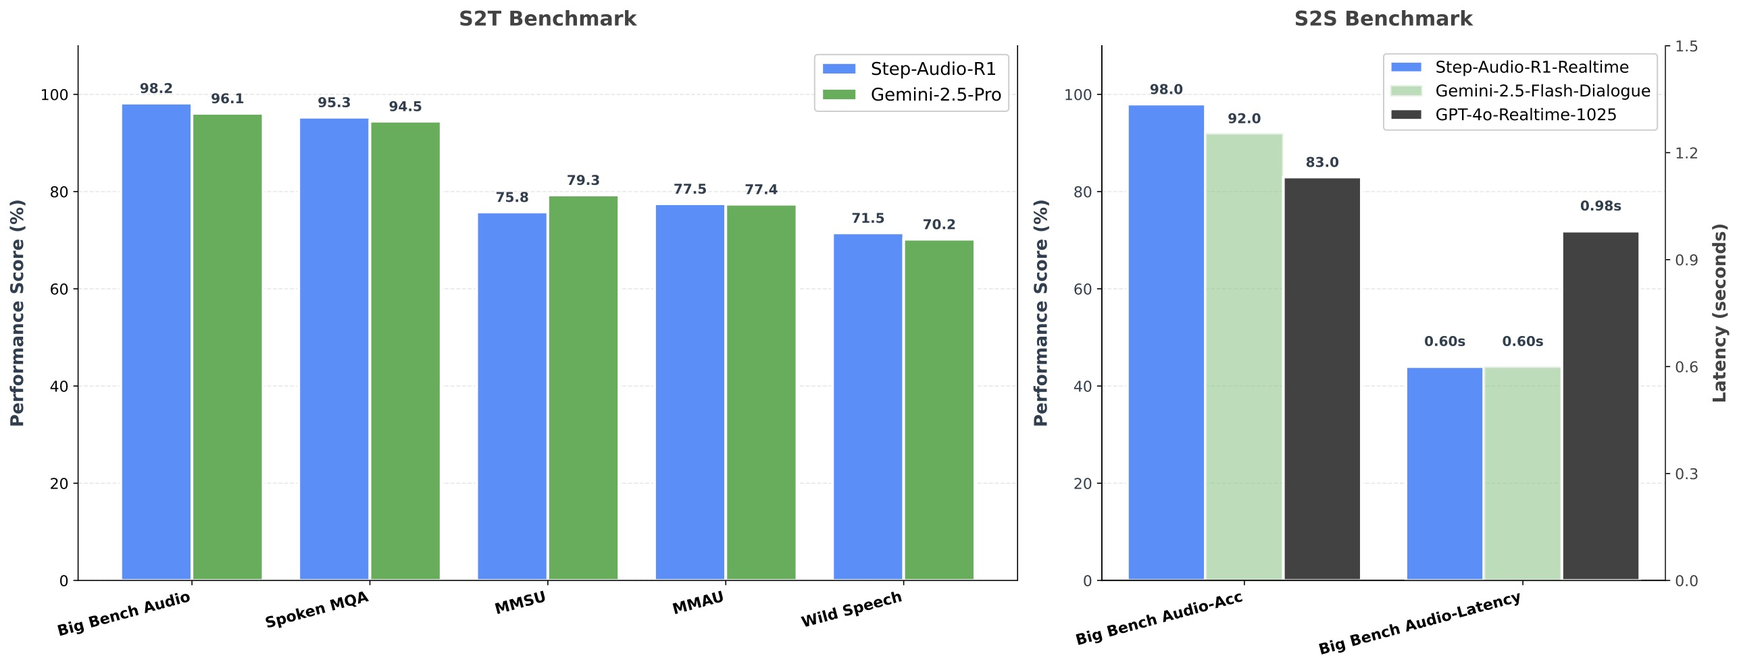
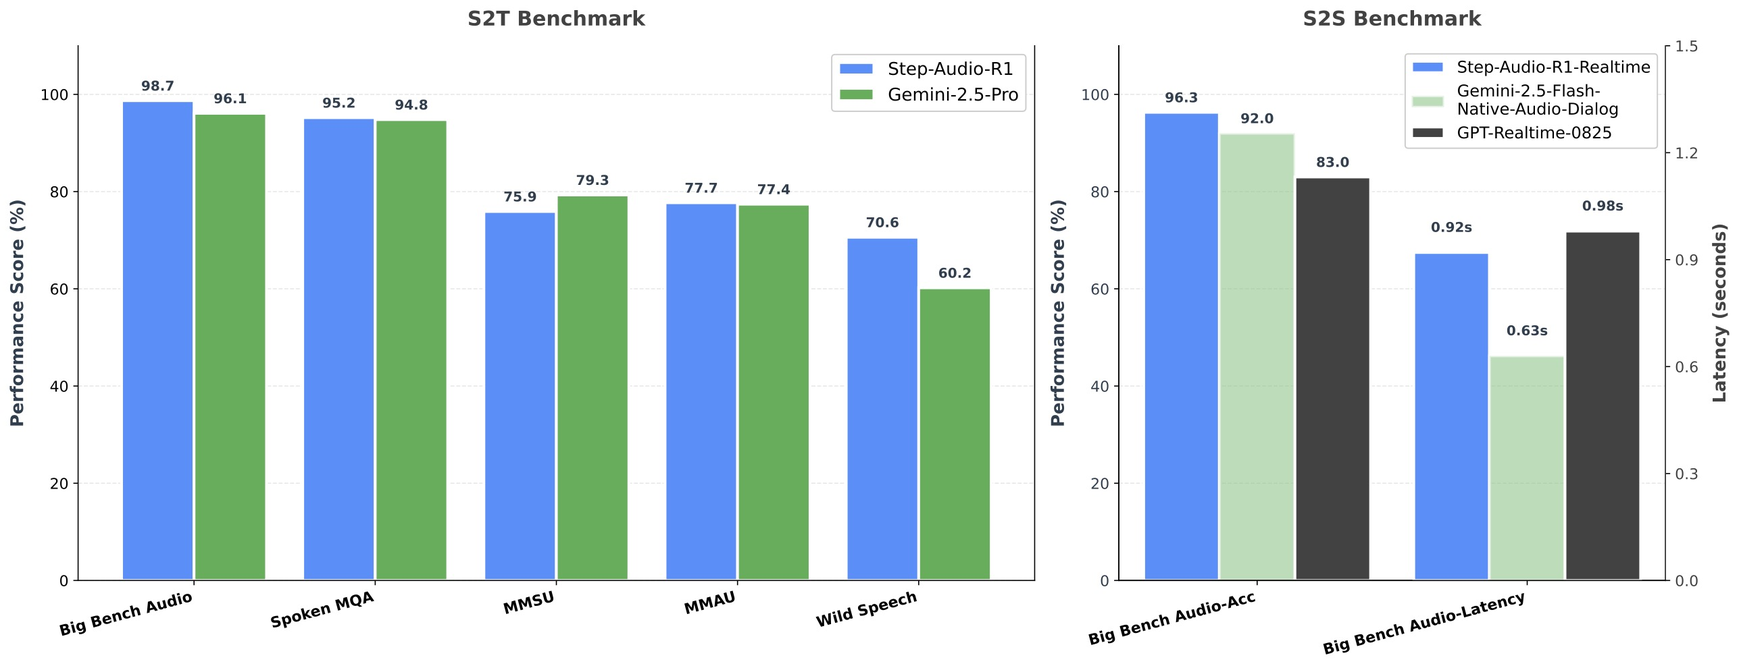
commit r1

diff --git a/step-audio-r1/index.html b/step-audio-r1/index.html
@@ -76,7 +76,7 @@
     a:focus-visible, button:focus-visible { outline: 2px solid var(--primary); outline-offset: 2px; }
 
     /* ========== 顶部导航 ========== */
-    .nav { position: sticky; top: 0; z-index: 10; background: rgba(255,255,255,.92); border-bottom: 1px solid var(--border); backdrop-filter: saturate(180%) blur(12px); box-shadow: 0 1px 3px rgba(15,23,42,.04), 0 4px 16px rgba(15,23,42,.06); }
+    .nav { position: sticky; top: 0; z-index: 1000; background: rgba(255,255,255,.92); border-bottom: 1px solid var(--border); backdrop-filter: saturate(180%) blur(12px); box-shadow: 0 1px 3px rgba(15,23,42,.04), 0 4px 16px rgba(15,23,42,.06); }
     .nav__inner { display: flex; align-items: center; gap: 16px; padding: 14px 24px; }
     .brand { display: flex; align-items: center; gap: 12px; font-weight: 700; font-size: 18px; letter-spacing: .3px; color: var(--text); }
     .brand img { width: var(--logo-size); height: var(--logo-size); object-fit: contain; }
@@ -252,7 +252,7 @@
     <section id="overview" class="section" aria-labelledby="h-overview">
       <div class="section__head"><h2 id="h-overview">Overview</h2></div>
       <div class="section__body">
-        <p class="muted">Different from our previous Step-Audio [32], Step-Audio 2 further integrates the generation of audio tokens into language modeling, achieves end-to-end audio perception and generation. As shown in Figure 3, Step-Audio 2 consists of an audio encoder, an audio adaptor, an LLM decoder and an audio detokenizer. The audio encoder is pretrained on various speech and audio understanding tasks including ASR, speaker age and gender prediction, audio event detection, etc. The audio encoder has an output frame rate of 25 Hz and is frozen during the entire training process. An audio adaptor with a downsampling rate of 2 is employed to connect the audio encoder to LLM, thereby reducing the output frame rate of the audio encoder to 12.5 Hz.</p>
+        <p class="muted">StepAudio R1 builds on the architecture of StepAudio 2 and is designed specifically for audio-based reasoning. The model comprises an audio encoder, an audio adaptor, and an LLM decoder. It adopts the Qwen2 audio encoder, pretrained on diverse speech and audio understanding tasks, whose 25 Hz outputs are passed through a downsampling audio adaptor—identical to that of StepAudio 2—to produce 12.5 Hz latent features. These features are then consumed by a Qwen2.5 32B decoder, which generates reasoning chains followed by the final textual response. A central innovation is Modality-Grounded Reasoning Distillation (MGRD), which iteratively transforms initially semantic reasoning into "native audio think" by strengthening the model's grounding in acoustic cues, ensuring that reasoning is tied to the audio itself rather than its transcription alone. The model is pretrained using the same data and procedures as StepAudio 2, and subsequently refined through a dedicated Post-Training phase.</p>
         <figure>
           <img src="assets/overview.png" alt="Step-Audio R1 Overview" />
           
@@ -564,94 +564,75 @@
                 <h4>Model Thinking Process</h4>
                 
                 <div class="reasoning-section">
-                  <p>首先，用户要求我分析一个音频片段的场景和人物心理状态变化。音频片段是来自一个喜剧表演，似乎是英国喜剧演员的表演，可能来自一个电视节目或舞台表演。从内容看，这似乎是关于一个荒谬的求职面试场景。</p>
-                  <p><strong>关键点：</strong></p>
-                  <ul>
-                    <li>用户提供了音频的转录文本，但文本中包含了很多笑声和表演元素，表明这是一个喜剧片段。</li>
-                    <li>任务：分析场景和不同人物的心理状态变化。</li>
-                  </ul>
-                  <p><strong>从转录文本中提取场景信息：</strong></p>
-                  <ul>
-                    <li>开头：面试官介绍自己（Darren, Head of Marketing; Sophia and Neil from HR）。</li>
-                    <li>面试者（女性）的回答非常荒谬和不合逻辑，例如：</li>
-                    <ul>
-                      <li>当被问及能为工作带来什么时，她说“带来一些茶和蛋糕”。</li>
-                      <li>当被问及如何激励团队时，她说“我会把桌子溅满激励”，然后大喊“从你们肥胖的屁股上起来做点事！”</li>
-                      <li>当被问及是否有孩子时，她说“我不知道，但我经常进入孩子的头脑”，然后唱了一首关于“最可爱、最可爱”的歌。</li>
-                      <li>最后，她问了一个无关的问题：“当闪电击中大海时，为什么鱼不全部死亡？”</li>
-                    </ul>
-                  </ul>
-                  <p>这显然是一个喜剧表演，模仿了糟糕的求职面试。场景是一个虚构的面试，但被夸大和荒谬化以达到喜剧效果。</p>
-                  <p><strong>现在，分析场景：</strong></p>
-                  <ul>
-                    <li><strong>场景：</strong>这是一个求职面试场景，但被喜剧化处理。面试发生在办公室环境中，有面试官（Darren, Sophia, Neil）和面试者（女性）。从上下文看，这可能是一个单口喜剧或小品表演，因为有观众笑声，表明是为娱乐目的。</li>
-                  </ul>
-                  <p><strong>不同人物的心理状态变化：</strong></p>
-                  <p><strong>面试官（Darren, Sophia, Neil）</strong>：</p>
-                  <ul>
-                    <li><strong>初始状态：</strong>专业、冷静、正式。他们开始时以标准面试方式提问。</li>
-                    <li><strong>心理变化：</strong>随着面试者给出荒谬的回答，他们的心理状态从专业转为困惑、尴尬、无奈，甚至可能有点恼怒，但因为是喜剧，他们表现出克制的幽默感。例如，Darren 说“嗯，这肯定能激励团队”，带有讽刺意味。</li>
-                    <li><strong>结尾：</strong>Darren 说“非常感谢你来，我们会联系你的”，礼貌结束但暗示面试已失败。</li>
-                  </ul>
-                  <p><strong>面试者（女性）</strong>：</p>
-                  <ul>
-                    <li><strong>初始状态：</strong>可能有点紧张，但很快进入荒谬模式。她说“谢谢你们见我”，听起来正常。</li>
-                    <li><strong>心理变化：</strong>心理状态非常不稳定和不可预测。她似乎在即兴发挥，给出完全不相关、搞笑的回答。行为从礼貌转为疯狂、夸张，甚至唱歌和喊叫，像一个喜剧角色，表现出极度不专业（为喜剧效果）。</li>
-                    <li><strong>结尾：</strong>她问了一个奇怪问题后自嘲“哦，不”，意识到不相关但为时已晚。</li>
-                  </ul>
-                  <p><strong>整体心理状态变化：</strong></p>
-                  <ul>
-                    <li>面试开始时，气氛正式专业。</li>
-                    <li>随着面试者荒谬回答，气氛变得越来越混乱和滑稽。</li>
-                    <li>面试官试图保持专业，但逐渐被逼到极限。</li>
-                    <li>面试者完全失控，导致面试崩溃；面试官礼貌收尾但已决定不录用。</li>
-                  </ul>
-                  <p>作为喜剧表演，心理状态变化是夸张的，目的是为了娱乐。观众的笑声提示（[Laughter]）表明这是一个成功的喜剧片段。</p>
-                  <p><strong>结构化回答：</strong></p>
-                  <ol>
-                    <li><strong>场景描述：</strong>虚构的求职面试喜剧片段。</li>
-                    <li><strong>人物分析：</strong>面试官的专业→困惑/无奈；面试者的礼貌→夸张失控。</li>
-                    <li><strong>整体动态：</strong>从专业到混乱，喜剧效果的形成机制。</li>
-                  </ol>
-                  <p>最后，用户用中文提问，因此采用中文作答。</p>
+                  <p>嗯，用户让我分析一段音频的场景和人物心理变化。首先得仔细听一遍音频内容。这段音频听起来像是一场喜剧表演，可能来自某个脱口秀节目或者情景喜剧。里面有几个角色：面试官和应聘者。</p>
+                  
+                  <p>首先，场景应该是一个公司面试。面试官有三个人，分别是Darren（市场部主管）、Sophia和Neil（HR）。应聘者是一个女性，她的表现非常奇怪，导致整个面试充满喜剧效果。</p>
+                  
+                  <p>接下来分析人物心理。面试官一开始是专业的，Darren主动介绍同事，语气正式。但随着应聘者回答问题，他们的心理状态开始变化。比如应聘者说能带茶和蛋糕来，面试官们可能觉得奇怪但还保持礼貌，Darren甚至说"这能激励团队"，说明他试图保持专业，但内心可能已经觉得不对劲了。</p>
+                  
+                  <p>然后应聘者提到"用动机溅满这张桌子"，面试官们可能感到困惑，但Darren继续追问，说明他还在努力推进面试流程，但已经有点无奈了。当应聘者突然大喊"从你们肥屁股上起来做事"，面试官们肯定震惊了，但Darren的反应是"有点直接"，这显示他试图控制场面，但内心可能已经崩溃了。</p>
+                  
+                  <p>接下来的问题关于孩子，应聘者回答"我不知道有没有孩子，但我经常进入孩子的头脑"，这明显很诡异。面试官们可能开始怀疑她的精神状态，但Darren还在坚持提问，说明他作为面试官的责任感，但心理上已经非常疲惫和无奈。</p>
+                  
+                  <p>然后应聘者突然唱歌，而且唱的是《The Greatest Love of All》，这完全出乎意料。面试官们可能从震惊转为尴尬，但Darren的回应"这很鼓舞人心"说明他在尽力维持专业，但已经处于极限状态。他的心理变化是从专业到无奈，再到被迫接受荒诞。</p>
+                  
+                  <p>应聘者最后问了一个无关的问题"闪电击中大海为什么鱼不死"，面试官们可能彻底无语了。Darren的结束语"感谢你的到来，我们会联系你"其实是客套话，他想尽快结束面试。他的心理状态已经从专业转变为彻底的疲惫和解脱。</p>
+                  
+                  <p>应聘者全程表现得很亢奋，心理状态是极度不稳定，可能有表演型人格或者精神问题。她似乎完全不在意面试的常规流程，而是按照自己的逻辑行动，心理状态是混乱但自我感觉良好。</p>
+                  
+                  <p>需要确认音频中的关键点：应聘者的回答越来越离谱，面试官从专业到无奈再到崩溃的过程。还要注意喜剧效果的来源，比如应聘者的突兀行为和面试官的克制反应形成的反差。</p>
+                  
+                  <p>可能用户需要详细的人物心理变化分阶段描述，以及场景的喜剧设定。要确保分析覆盖所有互动环节，特别是转折点，比如唱歌和突然大喊的部分。同时要指出面试官的礼貌和应聘者的失控之间的对比，这是喜剧的核心。</p>
                 </div>
                 
                 <div class="reasoning-conclusion">
-                  <h5>场景分析：虚构求职面试喜剧表演</h5>
-                  <p>根据您提供的音频片段（转录文本），这是一个典型的<strong>喜剧表演场景</strong>，具体来说，它模仿并夸张化了一个荒谬的求职面试过程。场景设定在一个虚构的办公室环境中（如人力资源部或市场部的面试室），但被刻意设计成滑稽、不合逻辑的闹剧，旨在通过反差和意外来制造喜剧效果。这很可能出自英国喜剧演员的舞台表演或电视节目（例如，类似瑞奇·热维斯或大卫·威廉姆斯的风格），因为：</p>
+                  <p>根据提供的所有音频片段，可以综合分析出以下场景和人物心理状态变化：</p>
+                  
+                  <h5>场景设定</h5>
+                  <p>这是一场<strong>充满荒诞喜剧色彩的公司面试</strong>。场景发生在一间办公室，面试官包括：</p>
                   <ul>
-                    <li><strong>环境元素：</strong>面试官（Darren、Sophia、Neil）以正式口吻介绍自己（“我是 Darren，市场总监”“这是 HR 的 Sophia 和 Neil”），营造了真实的职场面试框架。</li>
-                    <li><strong>观众反应：</strong>音频中频繁出现 [Laughter]（观众笑声），表明这不是真实事件，而是一场为娱乐目的设计的表演。演员通过夸张的言行和时机控制，引导观众发笑。</li>
-                    <li><strong>核心冲突：</strong>“专业面试”与“完全失控的求职者”之间的巨大反差。面试官试图维持职业礼仪，而求职者则用荒诞、无厘头的回答不断打破常规，最终导致面试崩溃。</li>
+                    <li><strong>Darren（市场部主管）</strong>：主导面试，负责提问。</li>
+                    <li><strong>Sophia 和 Neil（HR 代表）</strong>：作为旁观者参与面试。</li>
+                    <li><strong>应聘者（女性）</strong>：行为举止极度怪异、逻辑混乱、情绪波动剧烈的求职者。</li>
                   </ul>
-                  <p>这种场景常见于喜剧作品中，用以讽刺现实中的职场荒诞现象（如面试中的紧张、沟通障碍或企业文化问题），但在此片段中，它被极度放大，服务于纯粹的幽默目的。</p>
-                  <hr>
-                  <h5>不同人物的心理状态变化分析</h5>
-                  <p>在短短的音频片段中，人物的心理状态经历了戏剧性的转变，这种变化是喜剧的核心驱动力。以下是基于角色的详细分析（注：求职者为女性，面试官为 Darren、Sophia、Neil）。心理状态变化以“时间线”为轴，从面试开始到结束，突出转折点。</p>
-                  <h6>1. 求职者（女性）的心理状态变化：从礼貌到彻底失控</h6>
-                  <p>求职者是场景的“混乱制造者”，她的心理状态变化最为剧烈，呈现出一种<strong>“伪装正常 → 逐渐崩溃 → 完全放飞”</strong>的弧线，体现了喜剧中的“意外升级”手法。</p>
+                  <p>整个场景的核心<strong>喜剧冲突</strong>在于：<strong>应聘者完全无视面试的常规逻辑和社交礼仪，以一种极度亢奋、混乱且自我中心的方式回应所有问题，而面试官们则被迫在专业素养和维持基本理智之间挣扎</strong>。这并非真实职场面试，而是一段精心设计的<strong>单口喜剧或情景喜剧片段</strong>，通过夸张的表演制造笑点。</p>
+                  
+                  <h5>人物心理状态变化分析</h5>
+                  
+                  <h6>1. 应聘者：从"热情过头"到"彻底失控"的精神亢奋状态</h6>
                   <ul>
-                    <li><strong>初始阶段（0:00-0:10）：礼貌但紧张，试图表现专业</strong><br>表面镇定，实则内心焦虑。她以标准求职者姿态开场（“谢谢你们见我”），试图建立专业形象。但当被问及“能为工作带来什么”时，她犹豫后说出“带来一些茶和蛋糕”，暴露出她对职位理解的肤浅和不自信。这是用无害玩笑掩饰紧张的<strong>防御性心理</strong>。<br><em>关键转折：</em>Darren 礼貌回应后，她误以为对方接受了自己的荒谬逻辑，心理防线瓦解，开始更放肆发挥。</li>
-                    <li><strong>中期阶段（0:10-1:20）：情绪失控，进入“表演型疯狂”</strong><br>从紧张转为<strong>亢奋的荒诞感</strong>。被问“如何激励团队”时，她大喊“我会把桌子溅满激励！……从你们肥胖的屁股上起来做点事！”；随后唱起“最可爱、最可爱”的歌。她将面试当作个人秀场，逻辑断裂，进入<strong>自我陶醉的幻想状态</strong>。<br><em>关键转折：</em>唱完后说“我都没意识到我知道这么多歌词”，暴露出对自身行为失控的自我意识摇摆。</li>
-                    <li><strong>结尾阶段（1:20-1:40）：短暂清醒，但彻底失败</strong><br>她提问“闪电击中大海时鱼为什么不死”，随即自嘲“哦，不”，回到<strong>羞愧与尴尬</strong>。礼貌告别中带着无奈的绝望——明知搞砸却无力挽回。</li>
+                    <li><strong>初始状态（热情但离谱）</strong>：<br>她以过度热情的姿态进入面试，但回答第一个问题"你能为这份工作带来什么？"时，竟说"带茶和蛋糕"（<em>some tea and cakes</em>），并反问"你们会喜欢吗？"。这显示出她<strong>完全脱离职场语境，将工作场所想象成社交聚会</strong>，心理状态是天真、自我中心且毫无职业认知。</li>
+                    <li><strong>升级状态（语言暴力与混乱联想）</strong>：<br>当被问及"激励团队"时，她用"把桌子溅满激励"（<em>splatter this table with motivation</em>）这种暴力化比喻回应，并突然大吼"从你们肥屁股上起来做事！"（<em>Get off your fat arses and do something!</em>）。此时她的心理状态已<strong>从天真转向攻击性亢奋</strong>，将"激励"理解为粗暴的命令，<strong>完全丧失对社交边界的认知</strong>。</li>
+                    <li><strong>巅峰状态（精神分裂式表演）</strong>：<br>被问及是否了解儿童时，她先是诡异宣称"我总能进入孩子的头脑"（<em>I get inside kids' heads</em>），随即无缝切换成高亢的歌剧式演唱《The Greatest Love of All》（经典励志歌曲）。这揭示她<strong>处于一种精神分裂般的亢奋状态</strong>：<br>
+                      <ul>
+                        <li><strong>逻辑断裂</strong>：回答问题时思维跳跃，毫无关联。</li>
+                        <li><strong>表演型人格</strong>：将面试现场当作个人舞台，用夸张的歌唱表达"对儿童的爱"。</li>
+                        <li><strong>自我感动</strong>：演唱结束后甚至说"我都没意识到自己会这么多段歌词"，<strong>沉浸在自我陶醉中，完全无视他人反应</strong>。</li>
+                      </ul>
+                    </li>
+                    <li><strong>收尾状态（荒诞提问）</strong>：<br>最后她问"闪电击中大海时，为什么鱼不会死？"，将话题彻底引向与工作无关的哲学谜题。这表明她的<strong>思维已完全脱离现实</strong>，心理状态是<strong>彻底的混乱与无逻辑</strong>。</li>
                   </ul>
-                  <p><strong>小结：</strong>她的状态像过山车，礼貌→喊叫→唱歌→离题提问，笑点来自“正常人突然疯掉”的预期违背，属于喜剧的“天真破坏者”角色。</p>
-                  <h6>2. 面试官（Darren、Sophia、Neil）的心理状态变化：专业坚守到无奈妥协</h6>
-                  <p>面试官作为“理性代表”，心理变化更内敛：从专业到被动承受，体现<strong>“职业尊严被消解”</strong>的过程。</p>
+                  <p><strong>总结</strong>：应聘者全程处于一种<strong>由药物、精神疾病或刻意表演导致的亢奋、混乱、自我中心的心理状态</strong>。她没有"变化"，而是从头到尾维持这种极端状态，其"不变"正是喜剧的核心。</p>
+                  
+                  <h6>2. 面试官（Darren 为主）：从"专业克制"到"精神崩溃边缘"的无奈历程</h6>
                   <ul>
-                    <li><strong>初始阶段（0:00-0:10）：冷静专业，掌控全场</strong><br>Darren 主导面试、语气沉稳，HR 保持职业化沉默。对“茶和蛋糕”的回答，他以“这肯定能激励团队”回应——表面礼貌，实为<strong>困惑与不耐</strong>的职业幽默。</li>
-                    <li><strong>中期阶段（0:10-1:20）：从克制到崩溃边缘</strong><br>随着对方喊叫与唱歌，面试官心理防线被击穿：Darren 从“这很鼓舞人心”的反话，转向“相关吗？”的直问，经历<strong>礼貌 → 隐忍恼怒 → 无奈疲惫</strong>；HR 的笑声与沉默则是<strong>尴尬与同情</strong>的暗示。</li>
-                    <li><strong>结尾阶段（1:20-1:40）：礼貌收场，内心放弃</strong><br>“非常感谢你来，我们会联系你”，语气平静，实质是<strong>礼貌性终止</strong>。职业习惯战胜真实情绪，维持公司形象。</li>
+                    <li><strong>初始状态（专业礼貌）</strong>：<br>面试开始时，Darren 以标准流程介绍同事，语气正式。当听到"带茶和蛋糕"的回答时，他礼貌回应"这能帮助激励团队"（<em>it could certainly help motivate the team</em>），<strong>试图用专业态度化解荒谬</strong>，心理状态是<strong>克制且带有职业性幽默</strong>。</li>
+                    <li><strong>承压状态（困惑与疲惫）</strong>：<br>面对"溅满激励"的暴力比喻，Darren 仍追问"这是你能带来的吗？"，表现出<strong>作为面试官的责任感</strong>。但此时他的心理已从专业转为<strong>困惑与隐忍</strong>，内心独白可能是"这人到底在说什么？"。当应聘者突然大吼时，他仅用"有点直接"（<em>A bit blatant</em>）轻描淡写带过，<strong>心理防线开始动摇</strong>，试图用最小反应控制场面。</li>
+                    <li><strong>崩溃边缘（礼貌性放弃）</strong>：<br>当应聘者开始唱歌时，Darren 的心理状态达到临界点。他强行称赞"这很鼓舞人心"（<em>That was very inspiring</em>），<strong>这是典型的"礼貌性崩溃"</strong>——大脑已无法处理荒谬信息，只能用客套话结束对话。他随后机械地问"你有什么问题要问我们？"，<strong>表明他已放弃评估候选人，只想尽快结束这场噩梦</strong>。</li>
+                    <li><strong>最终状态（解脱式赶客）</strong>：<br>在听到"闪电与鱼"的离谱问题后，Darren 立刻以标准客套话"感谢你的到来，我们会联系你"（<em>Well, thanks very much for coming in. We'll be in touch</em>）结束面试。这句台词在此场景中<strong>完全失去了真实面试的含义</strong>，而是<strong>面试官精神崩溃后的解脱宣言</strong>。他的心理状态是<strong>彻底的疲惫、无奈与庆幸</strong>。</li>
                   </ul>
-                  <p><strong>小结：</strong>他们的变化是<strong>被动式滑落</strong>：专业冷静 → 隐忍恼怒 → 无奈妥协，笑点来自“憋屈感”。</p>
-                  <hr>
-                  <h5>整体心理动态与喜剧效果</h5>
-                  <ul>
-                    <li><strong>节奏结构：</strong>铺垫（专业）→ 升级（失控）→ 高潮（唱歌/离题）→ 收尾（礼貌失败），每次升级都击穿一次面试官防线。</li>
-                    <li><strong>心理反差：</strong>求职者的<strong>情绪化失控</strong> vs. 面试官的<strong>职业化克制</strong>；前者跳跃、后者渐进，形成高密度笑点。</li>
-                    <li><strong>现实隐喻：</strong>夸张讽刺真实职场沟通困境，但在此片段中更多服务于娱乐而非批判。</li>
-                  </ul>
-                  <p>总之，这是一个精心设计的喜剧片段，通过人物心理状态的剧烈变化（求职者从伪装到崩溃、面试官从专业到妥协）驱动笑点。如有具体表演者或节目信息，可进一步细化分析。</p>
+                  <p><strong>总结</strong>：面试官的心理变化是<strong>一条清晰的"专业性崩坏"曲线</strong>：<br><strong>专业 → 困惑 → 隐忍 → 精神疲惫 → 礼貌性放弃 → 解脱式赶客</strong>。<br>他的克制与应聘者的失控形成强烈反差，构成了主要的喜剧张力。</p>
+                  
+                  <h5>关键喜剧机制</h5>
+                  <ol>
+                    <li><strong>预期违背</strong>：面试本应是严肃的职业评估，却变成荒诞剧舞台。</li>
+                    <li><strong>反差幽默</strong>：应聘者的极端亢奋 vs 面试官的极致克制。</li>
+                    <li><strong>升级式荒谬</strong>：问题越常规，回答越离谱（从"茶和蛋糕"到"歌剧式育儿观"）。</li>
+                    <li><strong>观众共情</strong>：听众与面试官共享"这太离谱了"的感受，通过面试官的视角体验荒诞。</li>
+                  </ol>
+                  
+                  <h5>结论</h5>
+                  <p>该片段是一场<strong>精心编排的喜剧表演</strong>，场景设定为"失控的求职者 vs 崩溃的面试官"。应聘者全程处于<strong>精神亢奋的混乱状态</strong>，而面试官则经历<strong>从专业到精神崩溃的心理滑坡</strong>。二者互动的核心是<strong>用职场礼仪的外壳包裹荒诞内核</strong>，通过心理状态的极端反差制造持续笑点，最终以面试官"解脱式赶客"收尾，完成一场荒诞喜剧的完美闭环。</p>
                 </div>
               </div>
             </div>
